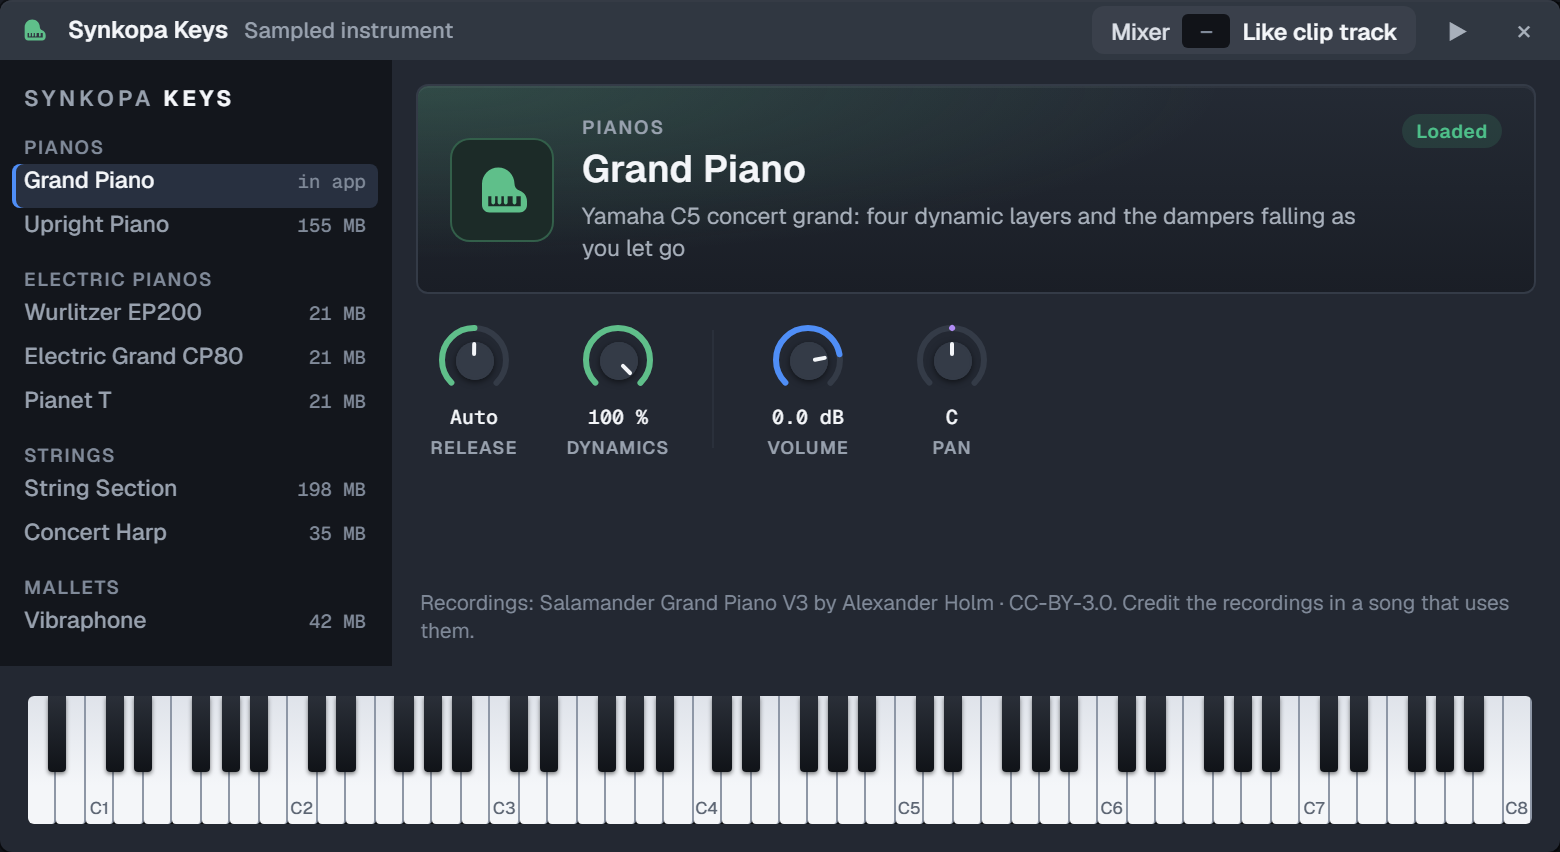
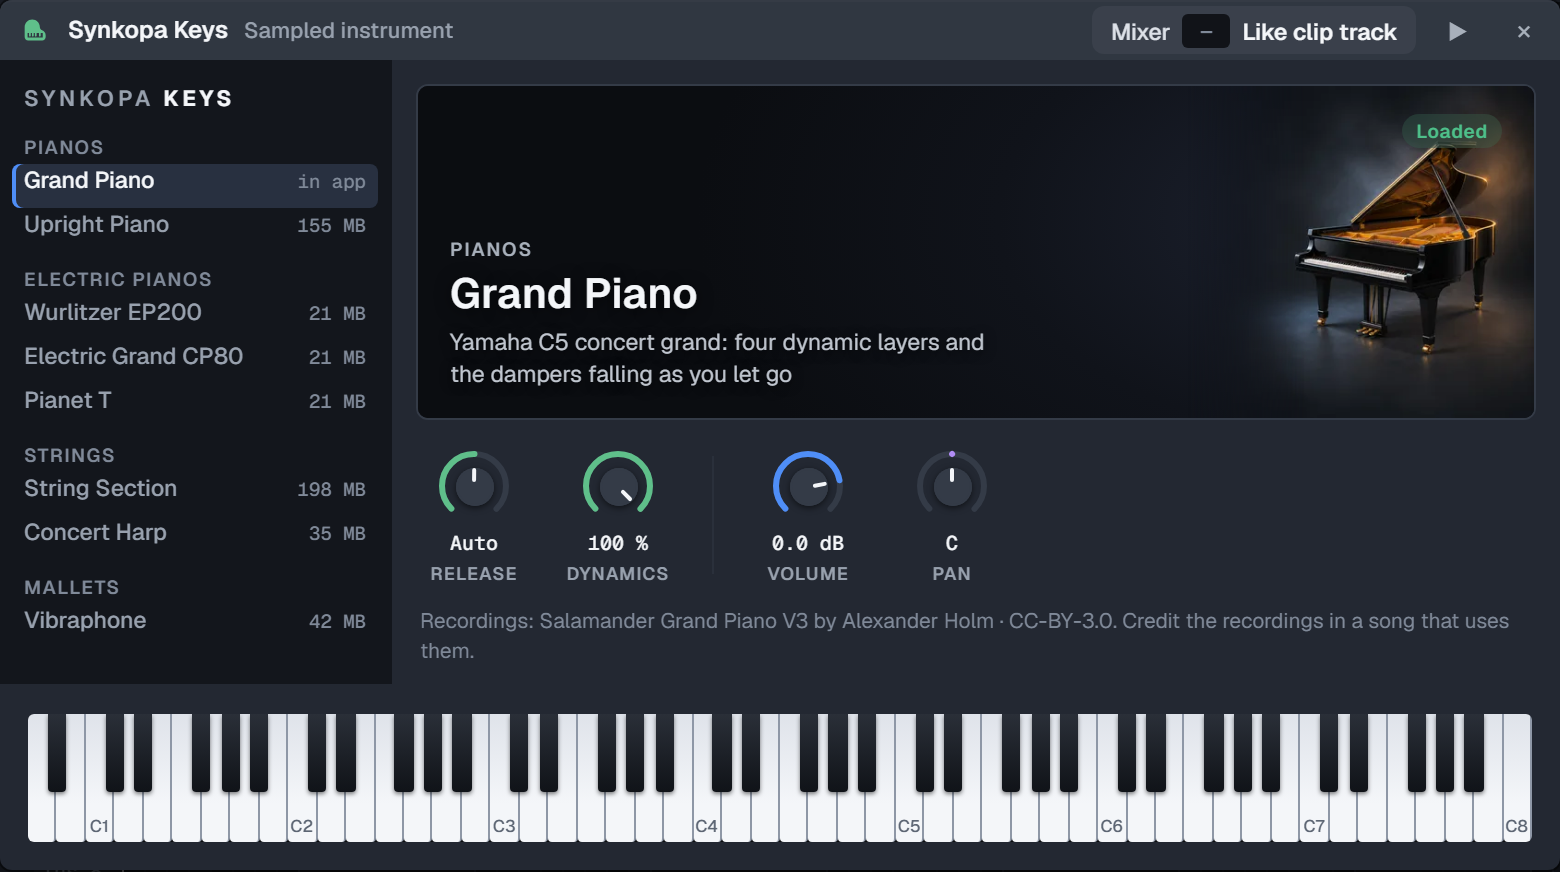
Synkopa Keys: instrument artwork in the window instead of gradients
Each instrument's plate shows an illustration of it (grand, upright, the three
electric pianos, strings, harp, vibraphone), generated for Synkopa in one
consistent dark-studio style and shipped as 5-13 KB WebP. The text side fades
into the plate so it stays readable. Adds an example that renders a MIDI file on
any Keys instrument.

diff --git a/ui/src/styles.css b/ui/src/styles.css
@@ -1079,16 +1079,19 @@ select option { background: var(--bg4); color: var(--fg); }
 .chanwin .kitem .meta { flex: none; font: 500 9.5px var(--mono); color: var(--fg5); }
 .chanwin .kitem.off .nm { color: var(--fg4); }
 .chanwin .kface { display: flex; flex-direction: column; min-width: 0; }
-.chanwin .kplate { position: relative; display: flex; align-items: center; gap: 14px; margin: 12px 12px 0; padding: 14px 16px; border-radius: 6px; overflow: hidden;
-  background: radial-gradient(120% 140% at 0% 0%, color-mix(in srgb, var(--kc, var(--blue)) 22%, transparent), transparent 60%), linear-gradient(180deg, var(--bg6), var(--bg4));
-  border: 1px solid var(--line2); box-shadow: inset 0 1px 0 color-mix(in srgb, var(--fg-hi) 6%, transparent); }
-.chanwin .kplate .kicon { flex: none; display: flex; align-items: center; justify-content: center; width: 52px; height: 52px; border-radius: 10px;
-  color: var(--kc, var(--blue)); background: color-mix(in srgb, var(--kc, var(--blue)) 14%, var(--bg1)); border: 1px solid color-mix(in srgb, var(--kc, var(--blue)) 35%, transparent); }
+.chanwin .kplate { position: relative; display: flex; align-items: flex-end; gap: 14px; height: 168px; margin: 12px 12px 0; padding: 14px 16px; border-radius: 6px; overflow: hidden;
+  background: #0c0e12; border: 1px solid var(--line2); isolation: isolate; }
+/* the instrument's artwork fills the plate; the text side fades to the plate's black so it stays readable */
+.chanwin .kplate .kart-img { position: absolute; top: 0; right: 0; height: 100%; width: auto; z-index: -2; pointer-events: none;
+  -webkit-mask-image: linear-gradient(90deg, transparent 0%, #000 34%); mask-image: linear-gradient(90deg, transparent 0%, #000 34%); }
+/* the plate's own dark studio backdrop, lit warm behind the instrument like its artwork */
+.chanwin .kplate::before { content: ''; position: absolute; inset: 0; z-index: -3; pointer-events: none;
+  background: radial-gradient(60% 120% at 85% 40%, #1d2230 0%, #10131a 55%, #0b0d11 100%); }
 .chanwin .kplate .ktitle { flex: 1; min-width: 0; }
-.chanwin .kplate .kcatlbl { font: 600 9.5px var(--sans); letter-spacing: .1em; text-transform: uppercase; color: var(--fg4); }
-.chanwin .kplate .knm { margin-top: 2px; font: 600 19px var(--sans); color: var(--fg-hi); letter-spacing: .01em; }
-.chanwin .kplate .kdesc { margin-top: 3px; font-size: 11.5px; line-height: 1.4; color: var(--fg3); }
-.chanwin .kbadge { flex: none; align-self: flex-start; padding: 2px 7px; border-radius: 10px; font: 600 9.5px var(--sans); letter-spacing: .04em; background: var(--line); color: var(--fg3); }
+.chanwin .kplate .kcatlbl { font: 600 9.5px var(--sans); letter-spacing: .1em; text-transform: uppercase; color: #a8b0bb; }
+.chanwin .kplate .knm { margin-top: 2px; font: 600 21px var(--sans); color: #f4f6f9; letter-spacing: .01em; text-shadow: 0 1px 8px rgba(0,0,0,.6); }
+.chanwin .kplate .kdesc { margin-top: 3px; max-width: 58%; font-size: 11.5px; line-height: 1.4; color: #c0c6cf; text-shadow: 0 1px 6px rgba(0,0,0,.7); }
+.chanwin .kbadge { flex: none; align-self: flex-start; backdrop-filter: blur(6px); padding: 2px 7px; border-radius: 10px; font: 600 9.5px var(--sans); letter-spacing: .04em; background: var(--line); color: var(--fg3); }
 .chanwin .kbadge.ok { color: var(--green); background: color-mix(in srgb, var(--green) 14%, transparent); }
 .chanwin .kbadge.busy { color: var(--blue-hi); background: color-mix(in srgb, var(--blue) 16%, transparent); }
 .chanwin .kbadge.bad { color: var(--red); background: color-mix(in srgb, var(--red) 14%, transparent); }

diff --git a/ui/src/views/KeysPanel.tsx b/ui/src/views/KeysPanel.tsx
@@ -15,7 +15,6 @@ import { autoDisplay, autoTweak, autoWheel, isAutomated, isOverridden, paramMenu
 import { commit } from '../state/edit';
 import { chanById, chanOp, setKeysArticulation, setKeysInstrument } from '../state/pattern';
 import { say } from '../state/ui';
-import { InstIcon } from '../ui/instIcons';
 import { Knob } from '../ui/Knob';
 import { ChannelLevelKnobs } from './ChannelWindow';
 
@@ -27,7 +26,11 @@ const relMs = (t: number) => Math.round(KEYS_RELEASE.min * Math.pow(KEYS_RELEASE
 const relText = (ms: number) => (ms >= 1000 ? (ms / 1000).toFixed(2) + ' s' : Math.round(ms) + ' ms');
 
 const CATEGORIES: KeysCategory[] = ['piano', 'electric', 'strings', 'mallets'];
-const CAT_ICON: Record<KeysCategory, string> = { piano: 'piano', electric: 'piano', strings: 'other', mallets: 'other' };
+/** Each instrument's artwork (`ui/src/art/keys/<id>.webp`), by catalog id. */
+const ART: Record<string, string> = Object.fromEntries(
+  Object.entries(import.meta.glob<string>('../art/keys/*.webp', { eager: true, query: '?url', import: 'default' }))
+    .map(([path, url]) => [path.slice(path.lastIndexOf('/') + 1, -'.webp'.length), url]),
+);
 
 /** The instrument's one-line character in the UI's language (the engine's English as a fallback). */
 export function instDesc(i: Pick<KeysInstrument, 'id' | 'description'>) {
@@ -135,7 +138,7 @@ export function KeysPanel(props: { c: KeysChannel }) {
 
       <section class="kface">
         <div class="kplate" style={{ '--kc': props.c.color }}>
-          <span class="kicon"><InstIcon id={CAT_ICON[cur()?.category ?? 'piano']} size={30} /></span>
+          <Show when={ART[instId()]}>{src => <img class="kart-img" src={src()} alt="" draggable={false} />}</Show>
           <div class="ktitle">
             <div class="kcatlbl">{cur() ? t(('b.kp.cat.' + cur()!.category) as TranslationKey) : ''}</div>
             <div class="knm">{cur()?.name ?? instId()}</div>

diff --git a/crates/engine/examples/keys_midi.rs b/crates/engine/examples/keys_midi.rs
@@ -1,0 +1,77 @@
+//! Renders a MIDI file on a Synkopa Keys instrument (all parts merged on one channel).
+//!   cargo run --release -p wave-engine --example keys_midi -- <kit folder> <instrument> <file.mid> <out.wav> [tempo scale]
+use std::path::Path;
+use std::sync::Arc;
+use wave_engine::keys::{instrument, KeysBank};
+use wave_engine::*;
+
+fn main() {
+    let a: Vec<String> = std::env::args().skip(1).collect();
+    let info = instrument(&a[1]).expect("instrument");
+    let bank = KeysBank::load_instrument(info, Path::new(&a[0])).unwrap();
+    let m = wave_engine::midi_file::parse(&std::fs::read(&a[2]).unwrap()).unwrap();
+    let bpm = m.bpm.unwrap_or(120.0) * a.get(4).and_then(|s| s.parse::<f64>().ok()).unwrap_or(1.0);
+    const CH: Id = 7;
+    let notes: Vec<Note> = m
+        .parts
+        .iter()
+        .flat_map(|p| p.notes.iter())
+        .map(|n| Note { v: n.vel as f32 / 127.0, ..Note::new(CH, (n.start * 4.0) as f32, (n.len * 4.0).max(0.25) as f32, Some(n.key)) })
+        .collect();
+    let end = m.end.ceil();
+    let mut p = Project::empty();
+    p.bpm = bpm;
+    p.inserts[0].fx.clear();
+    let keys = KeysState { instrument: info.id.into(), ..Default::default() };
+    p.channels.push(Channel { name: "Keys".into(), root: 60, ..Channel::new(CH, "", "#4f8ef7", ChannelSrc::Keys { keys }) });
+    p.patterns = vec![Pattern { id: 1, name: "P".into(), color: "#4f8ef7".into(), len: end, min_len: end, notes, swing: 0.0 }];
+    p.clips = vec![Clip {
+        id: 1,
+        track: 0,
+        start: 0.0,
+        len: end,
+        offset: 0.0,
+        kind: ClipKind::Pat,
+        source: 1,
+        muted: false,
+        gain: 0.0,
+        fade_in: 0.0,
+        fade_out: 0.0,
+        pan: 0.0,
+        norm: false,
+        rev: false,
+        tune: None,
+        stretch: 1.0,
+        resample: false,
+        pitch: 0.0,
+        insert: None,
+        root: 60,
+    }];
+    let e = Engine::new(p, Arc::new(NoPlugins));
+    e.set_keys_bank(info.id, Some(Arc::new(bank)));
+    let x = e.render(0.0, end, 2.0, 48000).unwrap();
+    let pk = x.iter().fold(0f32, |a, b| a.max(b.abs()));
+    let g = 0.7 / pk.max(1e-6); // normalise for listening
+    let data: Vec<u8> = x.iter().flat_map(|v| (((v * g).clamp(-1.0, 1.0) * 32767.0) as i16).to_le_bytes()).collect();
+    let mut h = vec![];
+    h.extend(b"RIFF");
+    h.extend((36 + data.len() as u32).to_le_bytes());
+    h.extend(b"WAVEfmt ");
+    h.extend(16u32.to_le_bytes());
+    h.extend(1u16.to_le_bytes());
+    h.extend(2u16.to_le_bytes());
+    h.extend(48000u32.to_le_bytes());
+    h.extend((48000u32 * 4).to_le_bytes());
+    h.extend(4u16.to_le_bytes());
+    h.extend(16u16.to_le_bytes());
+    h.extend(b"data");
+    h.extend((data.len() as u32).to_le_bytes());
+    h.extend(data);
+    std::fs::write(&a[3], h).unwrap();
+    println!(
+        "{} notes, {:.0} beats at {bpm:.0} BPM, peak {:.1} dBFS",
+        m.parts.iter().map(|p| p.notes.len()).sum::<usize>(),
+        end,
+        20.0 * pk.log10()
+    );
+}
